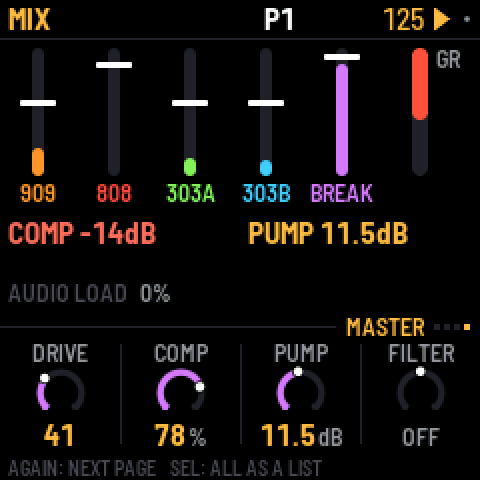
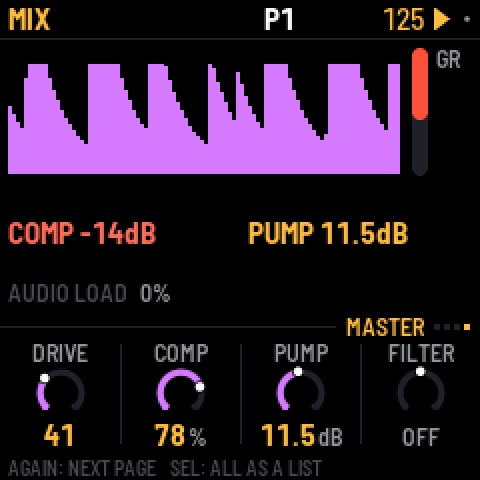
The manual: the controls table whole again (the lights table had split it), SEL's MORE, SELECT's chance, the keys on MASTER and FX and the mixer's mutes; the figures again (MASTER's view)
Claude-Session: https://claude.ai/code/session_016z2vpeuyy624UKoBb4KGcJ

Changed region(s): [[0.0, 0.0938, 0.8438, 0.4375]]

diff --git a/docs/manual.html b/docs/manual.html
@@ -97,9 +97,9 @@ nav.contents li { break-inside: avoid; }
 <h2 id="s3"><span class="num">3</span>Controls</h2>
 <div class="figs"><figure class="wide"><img src="img/fm1-panel.svg" alt="The FM-1 (a drawing), running X0X" loading="lazy"><figcaption>The FM-1 (a drawing), running X0X</figcaption></figure><figure class="wide"><img src="img/fm1-keys.svg" alt="What the keys do" loading="lazy"><figcaption>What the keys do</figcaption></figure></div>
 <p>These controls do the same thing on every screen. Each button that opens a screen always opens the same one: HOME the pattern (again: the song), SEQ the part's steps, EDIT the part's sound, ARP TB-3PO, LFO the mixer, FX the effects, GLO the settings. Pressing it again steps through that screen's pages. ALGORITHM only picks the part.</p>
-<div class="table"><table><thead><tr><th>Control</th><th>What it does</th></tr></thead><tbody><tr><td>ALGORITHM</td><td>Chooses the part you're working on: 909, 808, 303A, 303B or BREAK.</td></tr><tr><td>PRESETS</td><td>Chooses the next pattern. On a part's screen it changes only that part; on HOME it changes all five.</td></tr><tr><td>SELECT</td><td>Moves to the next or previous page. In a list, it moves up and down. Hold HOME and turn SELECT to set the tempo.</td></tr><tr><td>KNOB 1–4</td><td>Change the four values shown at the bottom of the screen. Each click is one step, however quickly you turn a few; keep spinning quickly and they speed up, to sweep the range.</td></tr><tr><td>SEL</td><td>Shows everything on the current screen as a list. In a list, it runs the highlighted action. When X0X asks a question, SEL means yes.</td></tr><tr><td>HOME</td><td>The pattern: all five parts. Press it again for the song, and again to come back. In a list, it goes back; when X0X asks a question, HOME means no.</td></tr><tr><td>SEQ</td><td>The selected part's steps, with its LENGTH, RATE and (on a 303) DIRECTION and TRANSPOSE (SWING is on HOME: it's every part's). Press it again for the next page.</td></tr><tr><td>EDIT</td><td>The selected part's sound, with its steps still on the keys. Press it again for the next page.</td></tr><tr><td>ARP</td><td>TB-3PO, the 303 line generator (on a 303 only). Press it again for the next page.</td></tr><tr><td>FX</td><td>Opens the effects.</td></tr><tr><td>LFO</td><td>Opens the mixer and the master.</td></tr><tr><td>GLO</td><td>Opens the settings.</td></tr><tr><td>PLAY</td><td>Starts and stops. Hold HOME and press PLAY to redo.</td></tr><tr><td>REC</td><td>Turns recording on and off: what you play is written (drum hits, 303 notes, knob moves; in SONG mode, the song). On a 303, the keys become a keyboard while it's on. Hold HOME and press REC to undo.</td></tr><tr><td>SAVE</td><td>Saves everything.</td></tr></tbody></table></div>
+<div class="table"><table><thead><tr><th>Control</th><th>What it does</th></tr></thead><tbody><tr><td>ALGORITHM</td><td>Chooses the part you're working on: 909, 808, 303A, 303B or BREAK.</td></tr><tr><td>PRESETS</td><td>Chooses the next pattern. On a part's screen it changes only that part; on HOME it changes all five.</td></tr><tr><td>SELECT</td><td>Moves to the next or previous page. In a list, it moves up and down. Hold HOME and turn SELECT to set the tempo; hold a step and turn it to set the step's chance (section 11).</td></tr><tr><td>KNOB 1–4</td><td>Change the four values shown at the bottom of the screen. Each click is one step, however quickly you turn a few; keep spinning quickly and they speed up, to sweep the range.</td></tr><tr><td>SEL</td><td>Shows everything on the current screen as a list: every knob of its pages, then MORE, the settings that are on no page (the advanced ones). In a list, it runs the highlighted action. When X0X asks a question, SEL means yes.</td></tr><tr><td>HOME</td><td>The pattern: all five parts. Press it again for the song, and again to come back. In a list, it goes back; when X0X asks a question, HOME means no.</td></tr><tr><td>SEQ</td><td>The selected part's steps, with its LENGTH, RATE and (on a 303) DIRECTION and TRANSPOSE (SWING is on HOME: it's every part's). Press it again for the next page.</td></tr><tr><td>EDIT</td><td>The selected part's sound, with its steps still on the keys. Press it again for the next page.</td></tr><tr><td>ARP</td><td>TB-3PO, the 303 line generator (on a 303 only). Press it again for the next page.</td></tr><tr><td>FX</td><td>Opens the effects.</td></tr><tr><td>LFO</td><td>Opens the mixer and the master.</td></tr><tr><td>GLO</td><td>Opens the settings.</td></tr><tr><td>PLAY</td><td>Starts and stops. Hold HOME and press PLAY to redo.</td></tr><tr><td>REC</td><td>Turns recording on and off: what you play is written (drum hits, 303 notes, knob moves; in SONG mode, the song). On a 303, the keys become a keyboard while it's on. Hold HOME and press REC to undo.</td></tr><tr><td>SAVE</td><td>Saves everything (while playing: when you stop).</td></tr><tr><td>ENV, LFO</td><td>Hold one of these while pressing keys to add an accent (ENV) or a slide (LFO). (LFO on its own opens the mixer.)</td></tr><tr><td>OCT-, OCT+</td><td>Page through the steps, 16 at a time (1–16, 17–32, 33–48, 49–64). On HOME and SONG they show patterns 1–16 or 17–32. On the 303 keyboard they change the octave. In TB-3PO they mutate the line or write a new one.</td></tr><tr><td>White keys</td><td>Steps. On HOME, they choose patterns. On MASTER and FX the keys do nothing.</td></tr><tr><td>Black keys</td><td>Drum tracks, or the break's slices. On HOME, they mute parts. Hold HOME and press one on the 909 or 808 to mute just that track. On the mixer (LFO) they pick a channel; with HOME held, they mute it.</td></tr><tr><td>MASTER</td><td>Volume.</td></tr></tbody></table></div>
 <p><strong>The key lights</strong> have two levels: bright for what is on or chosen, dim for what is there to choose.</p>
-<div class="table"><table><thead><tr><th>Screen</th><th>Bright</th><th>Dim</th></tr></thead><tbody><tr><td>HOME</td><td>the pattern playing (a cued one blinks); the parts playing</td><td>patterns with notes; muted parts</td></tr><tr><td>SONG</td><td>the bar's pattern; the bar's parts</td><td>patterns with notes; the bar's muted parts</td></tr><tr><td>909 / 808</td><td>the track's hits; the track</td><td>the other tracks with hits</td></tr><tr><td>303</td><td>notes</td><td>ties</td></tr><tr><td>303 with REC on</td><td>the keys you hold</td><td>the Cs, to find your place</td></tr><tr><td>BREAK</td><td>the steps it plays</td><td>the slice pads 1–8</td></tr><tr><td>MIX (PARTS, 909 MIX, 808 MIX)</td><td>the channel the knobs set</td><td>the other channels</td></tr><tr><td>ENV, LFO</td><td>Hold one of these while pressing keys to add an accent (ENV) or a slide (LFO). (LFO on its own opens the mixer.)</td></tr><tr><td>OCT-, OCT+</td><td>Page through the steps, 16 at a time (1–16, 17–32, 33–48, 49–64). On HOME and SONG they show patterns 1–16 or 17–32. On the 303 keyboard they change the octave. In TB-3PO they mutate the line or write a new one.</td></tr><tr><td>White keys</td><td>Steps. On HOME, they choose patterns.</td></tr><tr><td>Black keys</td><td>Drum tracks, or the break's slices. On HOME, they mute parts. Hold HOME and press one on the 909 or 808 to mute just that track.</td></tr><tr><td>MASTER</td><td>Volume.</td></tr></tbody></table></div>
+<div class="table"><table><thead><tr><th>Screen</th><th>Bright</th><th>Dim</th></tr></thead><tbody><tr><td>HOME</td><td>the pattern playing (a cued one blinks); the parts playing</td><td>patterns with notes; muted parts</td></tr><tr><td>SONG</td><td>the bar's pattern; the bar's parts</td><td>patterns with notes; the bar's muted parts</td></tr><tr><td>909 / 808</td><td>the track's hits; the track</td><td>the other tracks with hits</td></tr><tr><td>303</td><td>notes</td><td>ties</td></tr><tr><td>303 with REC on</td><td>the keys you hold</td><td>the Cs, to find your place</td></tr><tr><td>BREAK</td><td>the steps it plays</td><td>the slice pads 1–8</td></tr><tr><td>MIX (PARTS, 909 MIX, 808 MIX)</td><td>the channel the knobs set</td><td>the other channels</td></tr></tbody></table></div>
 <p>(The SEL button is labelled SCL in Felucca.)</p>
 <p>In a list, turn ALGORITHM to change the highlighted value. Rows with a return arrow are actions: press SEL to run them. X0X always asks before doing anything that would lose notes.</p>
 <p><strong>Help on the FM-1:</strong> hold any button for a second on its own, and a card shows what it does on the screen you're on, including its combinations (HOME's card, for example, covers tempo, patterns, undo and redo). Let go and nothing happens. The card disappears as soon as you press anything else, so button combinations work as normal.</p>

diff --git a/docs/MANUAL.md b/docs/MANUAL.md
@@ -110,9 +110,9 @@ screen's pages. ALGORITHM only picks the part.
 |---|---|
 | ALGORITHM | Chooses the part you're working on: 909, 808, 303A, 303B or BREAK. |
 | PRESETS | Chooses the next pattern. On a part's screen it changes only that part; on HOME it changes all five. |
-| SELECT | Moves to the next or previous page. In a list, it moves up and down. Hold HOME and turn SELECT to set the tempo. |
+| SELECT | Moves to the next or previous page. In a list, it moves up and down. Hold HOME and turn SELECT to set the tempo; hold a step and turn it to set the step's chance (section 11). |
 | KNOB 1–4 | Change the four values shown at the bottom of the screen. Each click is one step, however quickly you turn a few; keep spinning quickly and they speed up, to sweep the range. |
-| SEL | Shows everything on the current screen as a list. In a list, it runs the highlighted action. When X0X asks a question, SEL means yes. |
+| SEL | Shows everything on the current screen as a list: every knob of its pages, then MORE, the settings that are on no page (the advanced ones). In a list, it runs the highlighted action. When X0X asks a question, SEL means yes. |
 | HOME | The pattern: all five parts. Press it again for the song, and again to come back. In a list, it goes back; when X0X asks a question, HOME means no. |
 | SEQ | The selected part's steps, with its LENGTH, RATE and (on a 303) DIRECTION and TRANSPOSE (SWING is on HOME: it's every part's). Press it again for the next page. |
 | EDIT | The selected part's sound, with its steps still on the keys. Press it again for the next page. |
@@ -122,7 +122,12 @@ screen's pages. ALGORITHM only picks the part.
 | GLO | Opens the settings. |
 | PLAY | Starts and stops. Hold HOME and press PLAY to redo. |
 | REC | Turns recording on and off: what you play is written (drum hits, 303 notes, knob moves; in SONG mode, the song). On a 303, the keys become a keyboard while it's on. Hold HOME and press REC to undo. |
-| SAVE | Saves everything. |
+| SAVE | Saves everything (while playing: when you stop). |
+| ENV, LFO | Hold one of these while pressing keys to add an accent (ENV) or a slide (LFO). (LFO on its own opens the mixer.) |
+| OCT-, OCT+ | Page through the steps, 16 at a time (1–16, 17–32, 33–48, 49–64). On HOME and SONG they show patterns 1–16 or 17–32. On the 303 keyboard they change the octave. In TB-3PO they mutate the line or write a new one. |
+| White keys | Steps. On HOME, they choose patterns. On MASTER and FX the keys do nothing. |
+| Black keys | Drum tracks, or the break's slices. On HOME, they mute parts. Hold HOME and press one on the 909 or 808 to mute just that track. On the mixer (LFO) they pick a channel; with HOME held, they mute it. |
+| MASTER | Volume. |
 
 **The key lights** have two levels: bright for what is on or chosen, dim for what is there to
 choose.
@@ -136,11 +141,6 @@ choose.
 | 303 with REC on | the keys you hold | the Cs, to find your place |
 | BREAK | the steps it plays | the slice pads 1–8 |
 | MIX (PARTS, 909 MIX, 808 MIX) | the channel the knobs set | the other channels |
-| ENV, LFO | Hold one of these while pressing keys to add an accent (ENV) or a slide (LFO). (LFO on its own opens the mixer.) |
-| OCT-, OCT+ | Page through the steps, 16 at a time (1–16, 17–32, 33–48, 49–64). On HOME and SONG they show patterns 1–16 or 17–32. On the 303 keyboard they change the octave. In TB-3PO they mutate the line or write a new one. |
-| White keys | Steps. On HOME, they choose patterns. |
-| Black keys | Drum tracks, or the break's slices. On HOME, they mute parts. Hold HOME and press one on the 909 or 808 to mute just that track. |
-| MASTER | Volume. |
 
 (The SEL button is labelled SCL in Felucca.)
 
